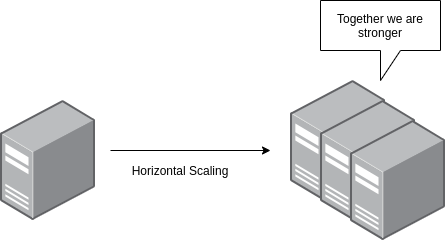
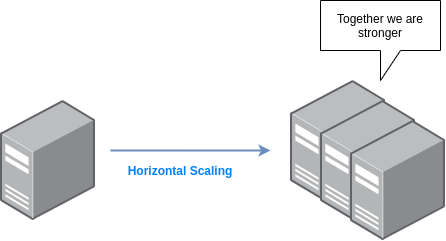
Add a new exercise
Also, added information on networking.

Changed region(s): [[0.2623, 0.668, 0.5247, 0.7552], [0.2332, 0.61, 0.6121, 0.639]]

diff --git a/README.md b/README.md
@@ -48,6 +48,9 @@
 * Proxy
 * CDN
 * Networking
+  * IP
+    * [Private IP](#private-ip)
+    * [Public IP](#public-ip)
   * Latency
   * Throughput
 * Design Level
@@ -69,7 +72,7 @@ Examples for clients:
 * A mobile phone that is used by the user to read emails
 
 <p align="center">
-<img src="images/design/one_request_too_many_1.png"/>
+<img src="images/design/basic_architecture.png"/>
 </p>
 
 #### Server
@@ -82,9 +85,19 @@ Few examples:
 
 ### Scalability
 
-[Wikipedia](): "Scalability is the property of a system to handle a growing amount of work by adding resources to the system"
+[Wikipedia](https://en.wikipedia.org/wiki/Scalability): "Scalability is the property of a system to handle a growing amount of work by adding resources to the system"
 
-Simply said, scalability is all about how well a system or an architecture can handle a bigger demand. Does it able to scale in a way that meets the workload requirements? More practically, if a system runs a database, does it able to handle more queries? If a service is streaming videos, does it able to provide the same quality of service to twice the amount of users it supports today? the scalability of system is defined by the answer for such questions.
+In simpler words, scalability is about answering the question whether a system or an architecture are able to scale in a way that meets the new workloads and demand.<br>
+More practically, answer questions like:
+  * if a system runs a database, does it able to handle more queries?
+  * if a system runs a service that stream videos to million users. Will it able to stream them the same way if the amount of users would triple itself?
+
+Also, scaling can be performed on different components. For example, in most cloud environments scaling is supported in case of:
+
+  * Compute hosts
+  * Virtual network functions
+  * VMs/Instances
+  * Containers
 
 There are different ways to scale.
 
@@ -118,7 +131,7 @@ When you double the resources of your system (or design) you might expect your s
 
 ##### Linear Scalability
 
-Linear Scalability happens when the workloads your system is able to handle scale accordingly to the scale in resources. The scalability factor remains constant as you scale.
+Linear Scalability happens when the workloads your system is able to handle scale accordingly to the scale in resources. The scalability factor remains constant as you scale.<br>
 For example, you triple the resources of your system -> the system is able to handle triple the workloads. In reality, it's actually not the case most of the time.
 
 ##### Sub-Linear Scalability
@@ -135,6 +148,21 @@ It may sound crazy, but in some cases, scaling your system might actually lead t
 
 ### Networking
 
+#### Public IP
+
+[Wikipedia](): "A public IP address, in common parlance, is a globally routable unicast IP address, meaning that the address is not an address reserved for use in private networks"
+
+From system design perspective, when you have a resources or a component, you would like everyone to be able to access to, whether for direct communication (like a web server) or as a gateway for other components (like a load balancer), you should use a public IP
+
+#### Private IP
+
+Whenever you don't want users to be  able to globally interact with a certain component or resource, you should use a private IP address. Few examples:
+
+  * Web servers that only the load balancer should communicate with them directly
+  * Internal servers that users outside the organization should access
+
+Private IPs, as opposed to public IPs, don't have to be unique and each separate network, can use the same addresses.
+
 #### Latency
 
 The time it takes to perform a certain task/action
@@ -148,14 +176,14 @@ The number of tasks/actions per unit of time
 Note: The names of the exercises are quotes from movies (sometimes little bit modified). If you can guess from which movie, please submit it to movies.md file in this way: [QUOTE] [MOVIE] [YOUR NAME]<br>
 Another note: Exercises may repeat themselves in different variations to practice and emphasize different concepts.
 
-### Elementary, my dear Watson
+### "Elementary, my dear Watson"
 
 <details>
-<summary>You have a website running on a single server. It's mostly running fine because only two users access it on weekly basis :'(. It suddenly becomes super popular and many users try to access it, but they are experiencing issues due to high load of the server. Two questions:
+<summary>You have a website running on a single server. It's mostly running fine because only two users access it on weekly basis :'(<br>It suddenly becomes super popular and many users try to access it, but they are experiencing issues due to high load of the server. Two questions:
   * What term/pattern in system design is referring to the issue you are experiencing?
   * How can you deal with it (even if partially) WITHOUT adding more servers or changing the architecture?
 <p align="center">
-<img src="images/design/one_request_too_many_1.png"/>
+<img src="images/design/basic_architecture.png"/>
 </p>
 </summary><br><b>
 
@@ -174,12 +202,12 @@ Vertical scaling has limitations. You can't keep adding RAM, storage and CPU end
 <summary>Assuming you now can extend the architecture, what would you change?</summary><br><b>
 </b></details>
 
-### Perfectly balanced, as all things should be
+### "Perfectly balanced, as all things should be"
 
 <details>
 <summary>You have the following simple architecture of a server handling requests from a client. What are the drawbacks of this design and how to improve it?
 <p align="center">
-<img src="images/design/one_request_too_many_1.png"/>
+<img src="images/design/basic_architecture.png"/>
 </p>
 </summary><br><b>
 
@@ -202,7 +230,24 @@ Vertical scaling has limitations. You can't keep adding RAM, storage and CPU end
 Yes, one could use DNS load balancing
 </b></details>
 
-### Keep calm, all I want is your cash
+### "For all my actions both public and private"
+
+<details>
+<summary>The following is an archictecture of a load balancer serving and three web servers. Assuming, we would like to have a secured architecture, that makes sense, where would you set a public IP and where would you set a private IP? 
+<p align="center">
+<img src="images/design/public_private_drag_and_drop.png"/>
+</p>
+</summary><br><b>
+
+<p align="center">
+<img src="images/design/public_private_drag_and_drop_solution.png"/>
+</p>
+
+It makes sense to hide the web servers behind the load balancers instead of giving users direct access to them, so each one of them will have a private IP assigned to it.
+The load balancer should have a public IP since, we excepy anyone who would like to access a certain web page/resource, to go through the load balanacer hence, it should be accessible to users.
+</b></details>
+
+### "Keep calm, all I want is your cash"
 
 <details>
 <summary>The following is a simple architecture of a client making requests to web server which in turn, retrieves the data from a datastore. What are the drawbacks of this design and how to improve it?
@@ -241,7 +286,7 @@ For multiple reasons:
 2. More data in the cache, the bigger it gets and longer the put/get actions will take
 </b></details>
 
-### In a galaxy far, far away...
+### "In a galaxy far, far away..."
 
 <details>
 <summary>The following is a system design of a remote database and three applications servers
@@ -265,7 +310,7 @@ For multiple reasons:
   * If the remote database isn't accessible for a long period of time, we'll have an outdated database and each app has the potential to work against a different DB
 </b></details>
 
-### A bit on the slow side
+### "A bit on the slow side"
 
 <details>
 <summary>The following is an improvement of the previous system design
@@ -315,19 +360,13 @@ Because you can't keep upgrading forever a certain server. At some point, you'll
 </b></details>
 
 <details>
-<summary></summary><br><b>
-</b></details>
-
-### Cache
-
-<details>
-<summary>Tell me everything you know about Cache</summary><br><b>
+<summary>What is "Horizontal Scaling"?</summary><br><b>
 </b></details>
 
 <details>
-<summary>True or False? While caching can reduce load time, it's increasing the load on the server</summary><br><b>
+<summary>Once we perform "Horizonal Scaling", by for example adding multiple web servers instead of having one server, how do we handle client acess to these servers? </summary><br><b>
 
-False. If your server doesn't have to execute the request since the result is already in the cache, then it's actually the opposite - there is less load on the server in addition to reduced load times.
+Using a load balancer
 </b></details>
 
 ### Load Balancer
@@ -356,7 +395,27 @@ False. If your server doesn't have to execute the request since the result is al
 <summary>What are sticky sessions? What are their pros and cons?</summary><br><b>
 </b></details>
 
+### Cache
+
+<details>
+<summary>Tell me everything you know about Cache</summary><br><b>
+</b></details>
+
+<details>
+<summary>True or False? While caching can reduce load time, it's increasing the load on the server</summary><br><b>
+
+False. If your server doesn't have to execute the request since the result is already in the cache, then it's actually the opposite - there is less load on the server in addition to reduced load times.
+</b></details>
+
 ### Networking
+
+<details>
+<summary>What is a public IP? In which scenarios, one should use a public IP?</summary><br><b>
+</b></details>
+
+<details>
+<summary>What is a private IP? In which scenarios, one should use a private IP?</summary><br><b>
+</b></details>
 
 <details>
 <summary>What is latency?</summary><br><b>
